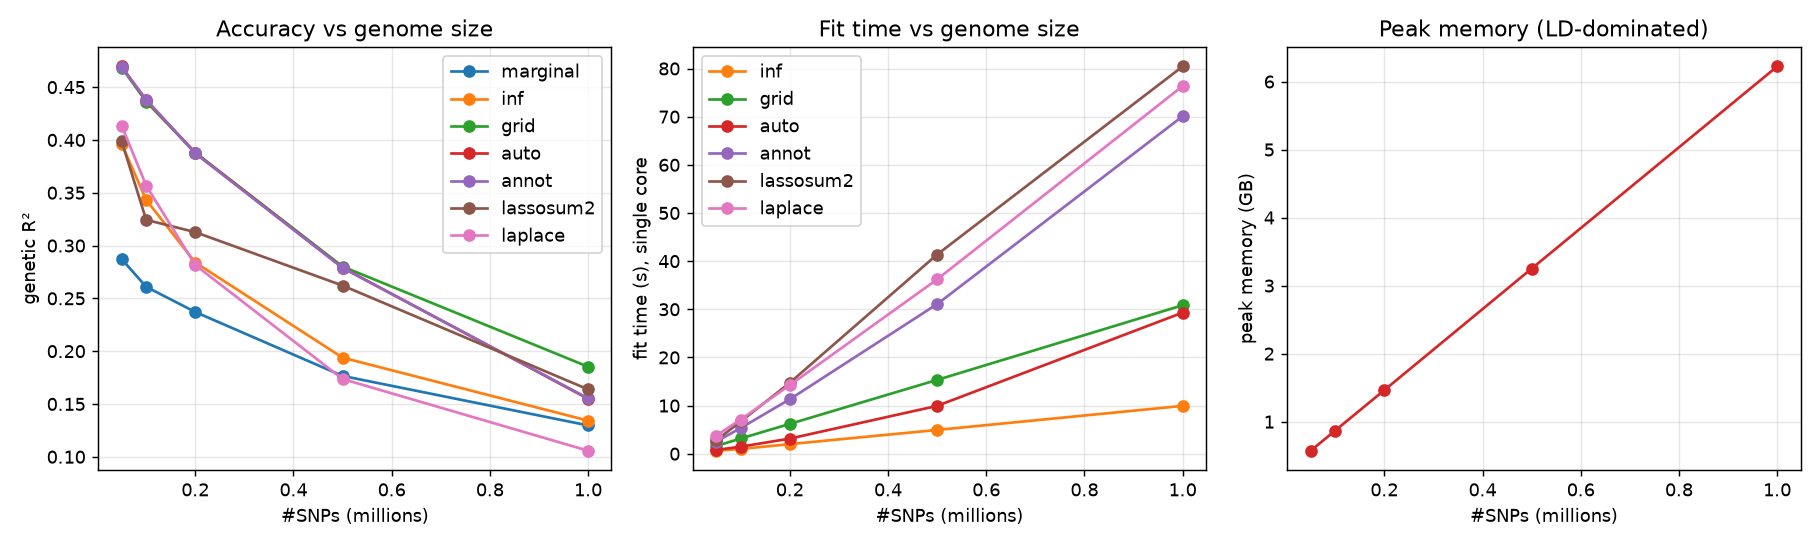
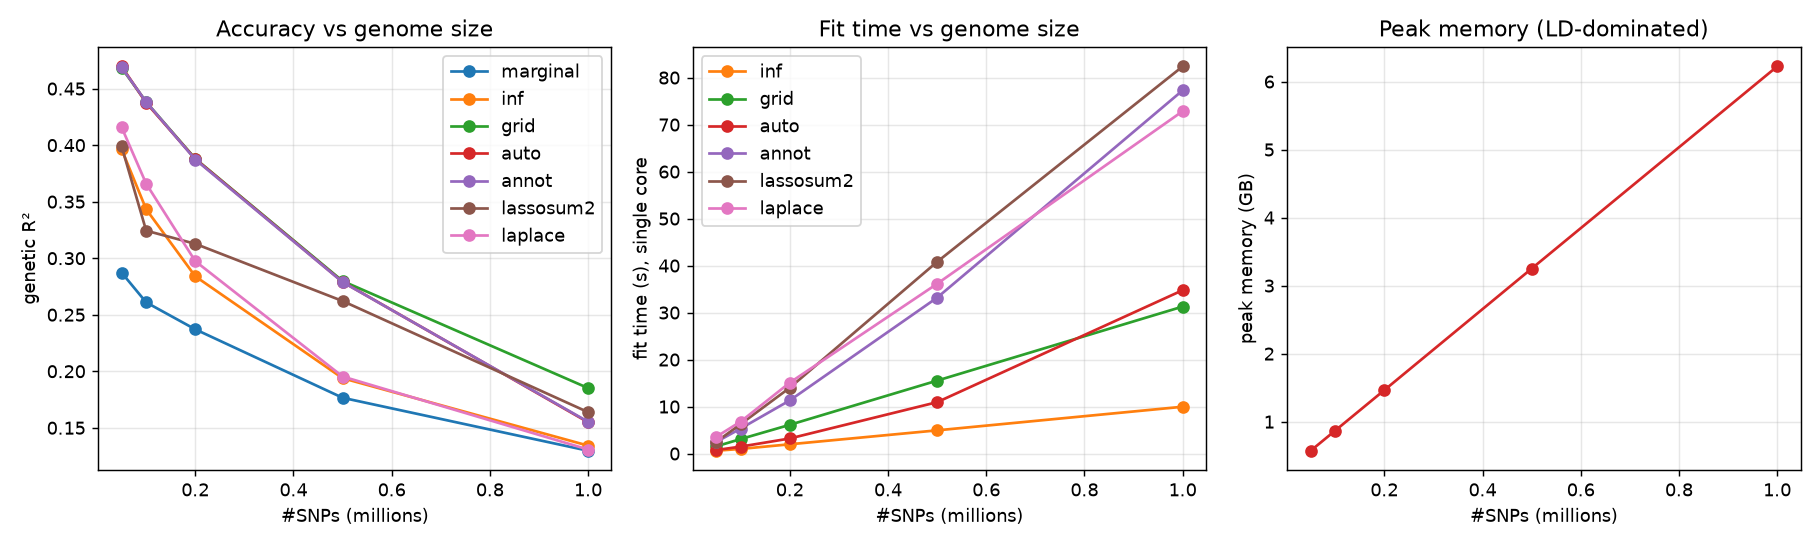
laplace: plug-in lambda from LDSC h2 (fixes low-SNR overfit collapse)
The Bayesian-lasso lambda was self-tuned per sweep by a marginal-maximisation
(EM) update lambda^2 = 2k/sum(tau^2). That has a positive-feedback failure at low
signal-to-noise (large genome, fixed N): the fitted tau^2 inflate on noise, so
lambda shrinks, shrinkage weakens and the fit overfits further -- its genetic
variance ran ~1.8x the truth at N/M~0.1 and laplace scored BELOW the raw marginal
PRS at 1M SNPs.

Replace it with a plug-in lambda = sqrt(2k/h2), anchoring the Laplace prior's
total variance to h2 regardless of the fit. Genome-wide, ldpred3_by_blocks(
method="laplace") estimates that h2 once by LD Score regression (robust across
power) when the caller gives no h2. ldpred3_laplace now defaults
sample_lambda=False (plug-in); the EM stays available as sample_lambda=True.

Effect on the realistic-LD scaling sweep (was below inf/marginal, now recovers to
the inf band): 500k 0.174 -> 0.195, 1M 0.106 -> 0.131; high-power accuracy
unchanged (laplace still edges lassosum2 at N/M>=0.5). The mean-vs-mode gap at low
power vs lassosum2 remains -- it is structural (dense mean can't zero nulls), not
a fitting artefact.

Regenerate method_scaling + laplace_vs_lasso data/figures; reframe the docs
(benchmarks.md, algorithm.md) honestly as power-dependent; +2 regression tests.

Claude-Session: https://claude.ai/code/session_0121BCGkjuhP8bgoWPeZqFDE

diff --git a/ldpred3/laplace.py b/ldpred3/laplace.py
@@ -14,16 +14,15 @@ per-SNP latent scale ``τ_j²``,
 
 so the Gibbs sweep is the *same* Gaussian per-SNP conditional the point-normal
 sampler already uses (prior variance ``τ_j²`` in place of the slab), plus an
-Inverse-Gaussian draw for ``1/τ_j²`` (Michael, Schucany & Haas 1976).
-
-The global shrinkage ``λ`` self-tunes — no penalty grid, the "auto" analogue —
-by **marginal maximisation** (empirical Bayes / MCEM), ``λ² = 2k / Σ τ_j²``,
-which converges to the value matching the fitted total variance. This is *not*
-fully hierarchical Bayes: ``λ`` is a point estimate and the returned mean is
-conditional on it. (A conditional Gamma-Gibbs draw for ``λ`` — the textbook
-fully-Bayes step — was tried first and fails here: with the extra scale-mixture
-layer it drifts to the hyper-prior's mean independently of the data and
-systematically mis-shrinks. See ``docs/benchmarks.md``.)
+Inverse-Gaussian draw for ``1/τ_j²`` (Michael, Schucany & Haas 1976). The global
+shrinkage ``λ`` is a **plug-in** from the heritability (``λ = √(2k/h2)`` — the
+value matching the Laplace prior's total variance to ``h2``); genome-wide that
+``h2`` is estimated once by LD Score regression, robust across power. This
+replaced a per-sweep marginal-maximisation (empirical Bayes / MCEM) update
+``λ² = 2k / Σ τ_j²`` that self-tunes well at high power but overfits at low
+signal-to-noise (see ``sample_lambda`` and ``docs/benchmarks.md``); the fully
+hierarchical alternative (a conditional Gamma-Gibbs draw for ``λ``) drifts to the
+hyper-prior's mean independently of the data and was rejected first.
 
 Unlike the spike-and-slab there is no point mass at zero: the posterior mean is
 dense, with heavier-tailed (less uniform) shrinkage than the infinitesimal
@@ -113,7 +112,7 @@ _seed = _jit(_seed)
 
 
 def ldpred3_laplace(corr, beta_hat, n_eff, *, h2=0.1, burn_in=100, num_iter=400,
-                    seed=None, sample_lambda=True, lam=None):
+                    seed=None, sample_lambda=False, lam=None):
     """Fit the Bayesian-lasso (Laplace-prior) model to one dense LD block.
 
     Parameters
@@ -125,21 +124,25 @@ def ldpred3_laplace(corr, beta_hat, n_eff, *, h2=0.1, burn_in=100, num_iter=400,
     n_eff : array_like or float
         GWAS sample size (per variant or scalar).
     h2 : float, default 0.1
-        Heritability *of this block*. Sets the scale of ``λ`` (via
-        ``λ = √(2k/h2)``, the value that makes the Laplace prior's total variance
-        equal ``h2``): the initial value, and — when ``sample_lambda`` — the seed
-        the self-tuning refines.
+        Heritability *of this block*. Sets the **plug-in** ``λ = √(2k/h2)`` — the
+        value that makes the Laplace prior's total variance equal ``h2``. This is
+        the shrinkage scale, so it must be a sensible block heritability;
+        genome-wide, seed it from a global estimate (``ldpred3_by_blocks`` /
+        ``--method laplace`` derive it by LD Score regression — far more robust
+        than a per-block guess).
     burn_in, num_iter : int
         Discarded warm-up sweeps, then averaged sweeps.
     seed : int, optional
         RNG seed (reproducible fit).
-    sample_lambda : bool, default True
-        Self-tune the global shrinkage each sweep by the marginal-maximisation
-        (EM) update ``λ² = 2k / Σ τ_j²`` (Park & Casella 2008), which converges to
-        the value matching the fitted total variance. If False, ``λ`` is held at
-        ``lam`` (or its ``h2`` init). (A naïve Gamma-Gibbs update on ``λ`` is
-        *not* used: with a scale mixture it drifts to the hyper-prior's mean
-        independently of the data and systematically mis-shrinks.)
+    sample_lambda : bool, default False
+        If False (default), hold ``λ`` at the ``h2`` plug-in — the stable choice.
+        If True, self-tune ``λ`` each sweep by the marginal-maximisation (EM)
+        update ``λ² = 2k / Σ τ_j²`` (Park & Casella 2008). The EM has a
+        positive-feedback failure mode at **low signal-to-noise** (large genome,
+        fixed N): the fitted ``τ_j²`` inflate on noise, so ``Σ τ_j²`` grows,
+        ``λ`` shrinks, shrinkage weakens and the fit overfits further (its genetic
+        variance ran ~1.8× the truth at N/M≈0.1). The plug-in avoids this by
+        anchoring the total prior variance to ``h2`` regardless of the fit.
     lam : float, optional
         Fixed / initial Laplace rate. Defaults to ``√(2k/h2)``.
 

diff --git a/tests/test_laplace.py b/tests/test_laplace.py
@@ -84,6 +84,48 @@ def test_laplace_by_blocks_and_guards():
         ldpred3_by_blocks(sp, beta_hat[idx0], n[idx0], method="laplace")
 
 
+def test_laplace_plugin_is_the_default():
+    # lambda is now a plug-in from h2 by default (stable); the EM self-tuning is
+    # opt-in via sample_lambda=True and must actually change the fit.
+    blocks, R, beta, beta_hat = _sim(seed=5)
+    default = _fit_blocks(blocks, beta_hat, 10000, burn_in=60, num_iter=150, seed=3)
+    plugin = _fit_blocks(blocks, beta_hat, 10000, burn_in=60, num_iter=150, seed=3,
+                         sample_lambda=False)
+    em = _fit_blocks(blocks, beta_hat, 10000, burn_in=60, num_iter=150, seed=3,
+                     sample_lambda=True)
+    np.testing.assert_array_equal(default, plugin)       # default == plug-in
+    assert not np.array_equal(default, em)               # EM is a different path
+
+
+def test_laplace_by_blocks_estimates_h2_and_stays_bounded():
+    # With no h2 given, ldpred3_by_blocks(method="laplace") seeds lambda from a
+    # global LD-Score-regression h2. Even at low power the fit must recover signal
+    # and its genetic variance must stay bounded (the EM's low-SNR overfit — a
+    # runaway genetic variance — is what this replaced).
+    rng = np.random.default_rng(0)
+    m, nblk, N = 2000, 10, 400                # N/M = 0.2 (low power)
+    k = m // nblk
+    i = np.arange(k)
+    Rb = 0.6 ** np.abs(i[:, None] - i[None, :])
+    blocks, R = [], np.zeros((m, m))
+    for b in range(nblk):
+        blocks.append((Rb.astype(np.float32), np.arange(b * k, (b + 1) * k)))
+        R[b * k:(b + 1) * k, b * k:(b + 1) * k] = Rb
+    causal = rng.random(m) < 0.02
+    beta = np.zeros(m); beta[causal] = rng.normal(0, 1, causal.sum())
+    beta *= np.sqrt(0.5 / (beta @ (R @ beta)))
+    L = np.linalg.cholesky(R + 1e-6 * np.eye(m))
+    beta_hat = R @ beta + (L @ rng.standard_normal(m)) / np.sqrt(N)
+    n = np.full(m, float(N))
+
+    be = ldpred3_by_blocks(blocks, beta_hat, n, method="laplace",   # no h2 -> LDSC
+                           burn_in=80, num_iter=200, seed=1)
+    assert np.all(np.isfinite(be))
+    assert _genetic_corr(be, beta, R) > 0.35                       # recovers signal
+    gv_ratio = (be @ (R @ be)) / (beta @ (R @ beta))
+    assert 0.05 < gv_ratio < 1.6, f"genetic variance not sanely bounded: {gv_ratio:.2f}"
+
+
 def test_laplace_empty_block():
     out = ldpred3_laplace(np.zeros((0, 0)), np.zeros(0), 1000.0)
     assert out.shape == (0,)

diff --git a/ldpred3/ldpred3.py b/ldpred3/ldpred3.py
@@ -1681,6 +1681,20 @@ def ldpred3_by_blocks(blocks, beta_hat, n_eff, method="auto",
     # Total h2 (if given) is split across blocks proportionally to block size.
     total_h2 = kwargs.pop("h2", None)
 
+    # laplace sets its shrinkage lambda from h2 (plug-in); a good genome-wide h2
+    # matters, and per-block guesses are far too noisy. When the caller gives no
+    # h2, estimate it once by LD Score regression (robust across power regimes)
+    # rather than falling back to a fixed per-block default.
+    if method == "laplace" and total_h2 is None:
+        from .ldsc import ld_scores, ldsc_h2
+        try:
+            ell = ld_scores(blocks)
+            total_h2 = float(ldsc_h2(n * beta_hat ** 2, ell, n, m_snps=m).h2)
+        except Exception:
+            total_h2 = None                          # fall back to the default
+        if total_h2 is not None:
+            total_h2 = min(max(total_h2, 1e-4), 1.0)
+
     for corr_block, idx in blocks:
         idx = np.asarray(idx)
         k = idx.shape[0]

diff --git a/docs/benchmarks.md b/docs/benchmarks.md
@@ -272,21 +272,21 @@ Genetic R² by method (accuracy falls with #SNPs because N is fixed):
 
 | #SNPs | marginal | inf | grid | auto | annot | lassosum2 | laplace |
 |-------|---------:|----:|-----:|-----:|------:|----------:|--------:|
-| 50k   | 0.287 | 0.396 | 0.469 | **0.470** | 0.469 | 0.399 | 0.414 |
-| 100k  | 0.261 | 0.343 | 0.436 | 0.438 | **0.438** | 0.324 | 0.357 |
-| 200k  | 0.237 | 0.284 | **0.388** | 0.388 | 0.387 | 0.313 | 0.282 |
-| 500k  | 0.176 | 0.194 | **0.280** | 0.279 | 0.279 | 0.262 | 0.174 |
-| 1M    | 0.130 | 0.134 | **0.185** | 0.155 | 0.155 | 0.164 | 0.106 |
+| 50k   | 0.287 | 0.396 | 0.468 | **0.470** | 0.469 | 0.399 | 0.416 |
+| 100k  | 0.261 | 0.343 | 0.438 | 0.438 | **0.438** | 0.324 | 0.366 |
+| 200k  | 0.237 | 0.284 | **0.388** | 0.388 | 0.387 | 0.313 | 0.297 |
+| 500k  | 0.176 | 0.194 | **0.280** | 0.279 | 0.279 | 0.262 | 0.195 |
+| 1M    | 0.130 | 0.134 | **0.185** | 0.155 | 0.155 | 0.164 | 0.131 |
 
 Fit time (s), single core:
 
 | #SNPs | inf | grid | auto | annot | lassosum2 | laplace |
 |-------|----:|-----:|-----:|------:|----------:|--------:|
-| 50k   | 0.6 | 1.6 | 0.8 | 2.5 | 2.8 | 3.7 |
-| 100k  | 1.0 | 3.2 | 1.5 | 5.3 | 6.7 | 7.1 |
-| 200k  | 2.0 | 6.2 | 3.1 | 11.3 | 14.7 | 14.2 |
-| 500k  | 4.9 | 15.3 | 9.9 | 31.1 | 41.4 | 36.2 |
-| 1M    | 9.9 | 30.8 | 29.3 | 70.1 | 80.4 | 76.4 |
+| 50k   | 0.6 | 1.5 | 0.8 | 2.5 | 2.5 | 3.6 |
+| 100k  | 1.0 | 3.1 | 1.5 | 5.3 | 6.3 | 6.8 |
+| 200k  | 2.0 | 6.1 | 3.2 | 11.3 | 14.0 | 15.1 |
+| 500k  | 4.9 | 15.5 | 10.9 | 33.2 | 40.8 | 36.1 |
+| 1M    | 10.0 | 31.3 | 34.8 | 77.3 | 82.4 | 72.9 |
 
 Peak memory is **LD-dominated** — the resident `float32` block-diagonal LD is
 ~2.2 GB at 1M and grows ~linearly (the clean, contiguous measurement is in the
@@ -322,14 +322,21 @@ Takeaways:
   keeps whichever of `auto` / `lassosum2` pseudo-validates better rather than
   trusting one blindly. It costs ~2× `auto` (a full (s, λ) grid of
   coordinate-descent sweeps).
-- **`laplace` shadows `lassosum2`** — as theory predicts, the Bayesian-lasso
-  posterior *mean* and the lasso *mode* of the same Laplace prior track each other
-  closely (0.41/0.40 at 50k, 0.28/0.31 at 200k), both a band below the
-  spike-and-slab on this sparse trait: a dense heavy-tailed prior cannot
-  concentrate on the few causals the way the point mass does. Cost is `annot`-like
-  (a full per-block Gibbs with the extra scale-mixture draw), ~3.7→76 s across
-  50k–1M. It is the self-tuning dense alternative; use it (or `lassosum2`) as a
-  cross-check on `auto`, not as a default for sparse traits.
+- **`laplace` vs `lassosum2` is power-dependent — they are the *mean* and the
+  *mode* of the same Laplace prior.** At moderate/high per-SNP power `laplace`
+  (the posterior mean, the better estimator under squared loss) edges `lassosum2`
+  (the MAP/mode): 0.416 vs 0.399 at 50k, 0.366 vs 0.324 at 100k, and likewise in
+  the high-power [architecture check](#laplace-prior-the-bayesian-lasso-methodlaplace).
+  But as power drops (`N/M` ≤ 0.25 here) **`lassosum2` pulls clearly ahead** —
+  0.262 vs 0.195 at 500k, 0.164 vs 0.131 at 1M. The reason is structural: the
+  posterior mean is **dense** (no point mass at zero), so genome-wide it spreads
+  nonzero weight over ~1M mostly-null SNPs and cannot escape their noise, whereas
+  `lassosum2`'s L1 mode zeros them out and its pseudo-validation adapts the
+  shrinkage to the data. Both cost `annot`-like (~3.6→73 s across 50k–1M). So
+  `laplace` recovers to the `inf`/`marginal` band at scale (it no longer *under*performs
+  a raw ridge — the earlier collapse was an EM artefact, now fixed with an
+  LDSC-plug-in `λ`); but for a *single* sparse method at genome scale `lassosum2`
+  is the more robust choice.
 - **`annot` tracks `auto`** when the annotation is uninformative, at **~2–3× the
   time** (the logistic θ-update) — the cost is worth it only when the annotation
   carries signal (see the architecture table).
@@ -373,9 +380,12 @@ Bayesian shrinkage estimator, which should predict at least as well. It is a
 Gibbs sampler over the normal / exponential scale-mixture of the Laplace (Park &
 Casella 2008): a per-SNP latent variance `τ_j²` with `β_j | τ_j² ~ N(0, τ_j²)`
 and `τ_j² ~ Exp(λ²/2)`, so each sweep is the usual Gaussian per-SNP conditional
-plus an Inverse-Gaussian draw for `1/τ_j²`; the global shrinkage `λ` self-tunes
-by the marginal-maximisation update `λ² = 2k/Στ_j²`. Unlike the spike-and-slab it
-has no point mass at zero — the posterior mean is dense.
+plus an Inverse-Gaussian draw for `1/τ_j²`. The global shrinkage is a **plug-in**
+`λ = √(2k/h²)` from a heritability estimated once by LD Score regression — this
+replaced a per-sweep EM update (`λ² = 2k/Στ_j²`) that overfit at low
+signal-to-noise (its genetic variance ran ~1.8× the truth at `N/M ≈ 0.1`, so
+`laplace` dropped *below* the raw marginal at 1M SNPs). Unlike the spike-and-slab
+it has no point mass at zero — the posterior mean is dense.
 
 Genetic R² by architecture (realistic coalescent LD, m=10,000, N=20,000, h²=0.5,
 5 reps; `grid` gets the oracle `(h²,p)`). Regenerate with
@@ -383,29 +393,37 @@ Genetic R² by architecture (realistic coalescent LD, m=10,000, N=20,000, h²=0.
 
 | architecture | inf | grid | auto | lassosum2 | **laplace** |
 |--------------|----:|-----:|-----:|----------:|------------:|
-| infinitesimal     | 0.862 | 0.861 | 0.858 | 0.854 | **0.860** |
+| infinitesimal     | 0.862 | 0.861 | 0.858 | 0.854 | **0.861** |
 | polygenic (p=0.1) | 0.859 | 0.879 | 0.879 | 0.860 | **0.866** |
-| sparse (p=0.01)   | 0.864 | 0.970 | 0.970 | 0.889 | **0.906** |
+| sparse (p=0.01)   | 0.864 | 0.969 | 0.970 | 0.889 | **0.897** |
 
-- **The posterior mean beats the mode.** `laplace` edges out `lassosum2` at every
-  architecture (0.860 vs 0.854, 0.866 vs 0.860, 0.906 vs 0.889) — the expected
-  reward for averaging the posterior rather than taking its peak, and a direct
-  confirmation that the two are the same prior seen two ways.
-- **It matches `inf` on the infinitesimal trait** (0.860 vs 0.862): with a truly
+- **At this (high) power the posterior mean beats the mode.** `laplace` edges out
+  `lassosum2` at every architecture (0.861 vs 0.854, 0.866 vs 0.860, 0.897 vs
+  0.889) — the expected reward for averaging the posterior rather than taking its
+  peak, and a direct confirmation that the two are the same prior seen two ways.
+  **This ordering flips at low power** (the fixed-N [scaling table](#methods-accuracy-vs-scalability)):
+  once `N/M` ≲ 0.25 `lassosum2`'s sparsity + pseudo-validation pull ahead, because
+  the dense posterior mean can't zero the genome's many null SNPs. Mean-beats-mode
+  holds *per SNP*; sparsity wins *across a genome of nulls*.
+- **It matches `inf` on the infinitesimal trait** (0.861 vs 0.862): with a truly
   Gaussian architecture the Laplace mean reproduces the optimal ridge/BLUP.
-- **It trails the spike-and-slab on the sparse trait** (0.906 vs `auto` 0.970):
+- **It trails the spike-and-slab on the sparse trait** (0.897 vs `auto` 0.970):
   the Laplace has heavier tails than a Gaussian but no spike, so it cannot
   concentrate on a handful of causals the way the point-normal does. That gap is
   the price of the continuous prior — `auto` remains the default for sparse
-  traits; `laplace` is the robust, self-tuning dense alternative (and the
-  Bayesian sibling of `lassosum2`).
+  traits; `laplace` is the self-tuning dense alternative (and the Bayesian sibling
+  of `lassosum2`), best used as a cross-check rather than a genome-scale default.
 
-> A naïve fully-Bayesian `λ` (a Gamma-Gibbs draw) was tried first and **failed**:
-> with the scale mixture it drifts to the hyper-prior's mean *independently of the
-> data*, mis-shrinking every architecture to ~0.76. The marginal-maximisation
-> (EM) `λ` update above is what makes it track — a good reminder that the extra
-> latent layer of a scale-mixture prior needs its hyper-parameter tuned by
-> marginal likelihood, not by a conditional draw.
+> **Tuning `λ`.** Two self-tuning schemes were tried before the current plug-in.
+> A naïve fully-Bayesian `λ` (a Gamma-Gibbs draw) drifts to the hyper-prior's mean
+> *independently of the data*, mis-shrinking every architecture to ~0.76. A
+> marginal-maximisation (EM) update `λ² = 2k/Στ_j²` fixed that at high power but
+> has a positive-feedback failure at **low** signal-to-noise — the fitted `τ_j²`
+> inflate on noise, so `λ` shrinks and the fit overfits (genetic variance ~1.8×
+> the truth; `laplace` fell *below* the raw marginal at 1M SNPs). The current
+> default is a **plug-in** `λ = √(2k/h²)` from an LD-Score-regression `h²`
+> (estimated once, robust across power) — stable everywhere, and what lifted the
+> low-power rows above (0.174→0.195 at 500k, 0.106→0.131 at 1M).
 
 ## Genotype-level simulation
 

diff --git a/docs/algorithm.md b/docs/algorithm.md
@@ -331,18 +331,27 @@ Inverse-Gaussian draw for `1/τ_j² ~ InvGauss(λ/|β_j|, λ²)`. The estimate i
 Rao-Blackwellised average of the per-SNP conditional means over the post-burn-in
 sweeps.
 
-**Self-tuning `λ`.** The global shrinkage is set by marginal maximisation (an EM
-step), `λ² = 2k / Σ τ_j²`, which converges to the value matching the fitted total
-variance — no penalty grid, no validation cohort. A naïve fully-Bayesian `λ` (a
-conditional Gamma draw) does *not* work here: with the extra scale-mixture layer
-it drifts to the hyper-prior's mean independently of the data and mis-shrinks
-(see [benchmarks](benchmarks.md#laplace-prior-the-bayesian-lasso-methodlaplace)).
+**Setting `λ` (a plug-in, not EM).** The global shrinkage is a plug-in from the
+heritability, `λ = √(2k/h²)` — the value that makes the Laplace prior's total
+variance equal `h²`. Genome-wide, `h²` is estimated **once** by LD Score
+regression (`ldpred3_by_blocks` / `--method laplace` do this when no `h²` is
+given), which is robust across power regimes. Two data-adaptive schemes were
+tried and rejected: a fully-Bayesian conditional Gamma draw drifts to the
+hyper-prior's mean independently of the data; and a marginal-maximisation (EM)
+update `λ² = 2k/Στ_j²` works at high power but has a positive-feedback failure at
+low signal-to-noise — the `τ_j²` inflate on noise, so `λ` shrinks and the fit
+overfits (`laplace` fell *below* the raw marginal at 1M SNPs). The plug-in
+anchors the total prior variance to `h²` regardless of the fit, so it is stable.
+`sample_lambda=True` still exposes the EM for the high-power regime. (See
+[benchmarks](benchmarks.md#laplace-prior-the-bayesian-lasso-methodlaplace).)
 
 Unlike the spike-and-slab there is no point mass at zero, so the posterior mean
 is **dense** — heavier-tailed shrinkage than the infinitesimal Gaussian, but it
 cannot concentrate on a few causals the way the point-normal does. It matches
-`inf` on a truly infinitesimal trait, beats `lassosum2` across architectures
-(the mean over the mode), and trails `auto`/`grid` on sparse traits. Dense LD
+`inf` on a truly infinitesimal trait and beats `lassosum2` **at moderate/high
+power** (the mean over the mode) — but the ordering flips at low power
+(genome-scale, fixed N), where `lassosum2`'s sparsity wins because the dense mean
+cannot zero the null SNPs; and it trails `auto`/`grid` on sparse traits. Dense LD
 blocks only (per-block, like `inf`/`grid`). CLI: `--method laplace`.
 
 ## Bivariate (two-trait) LDpred3